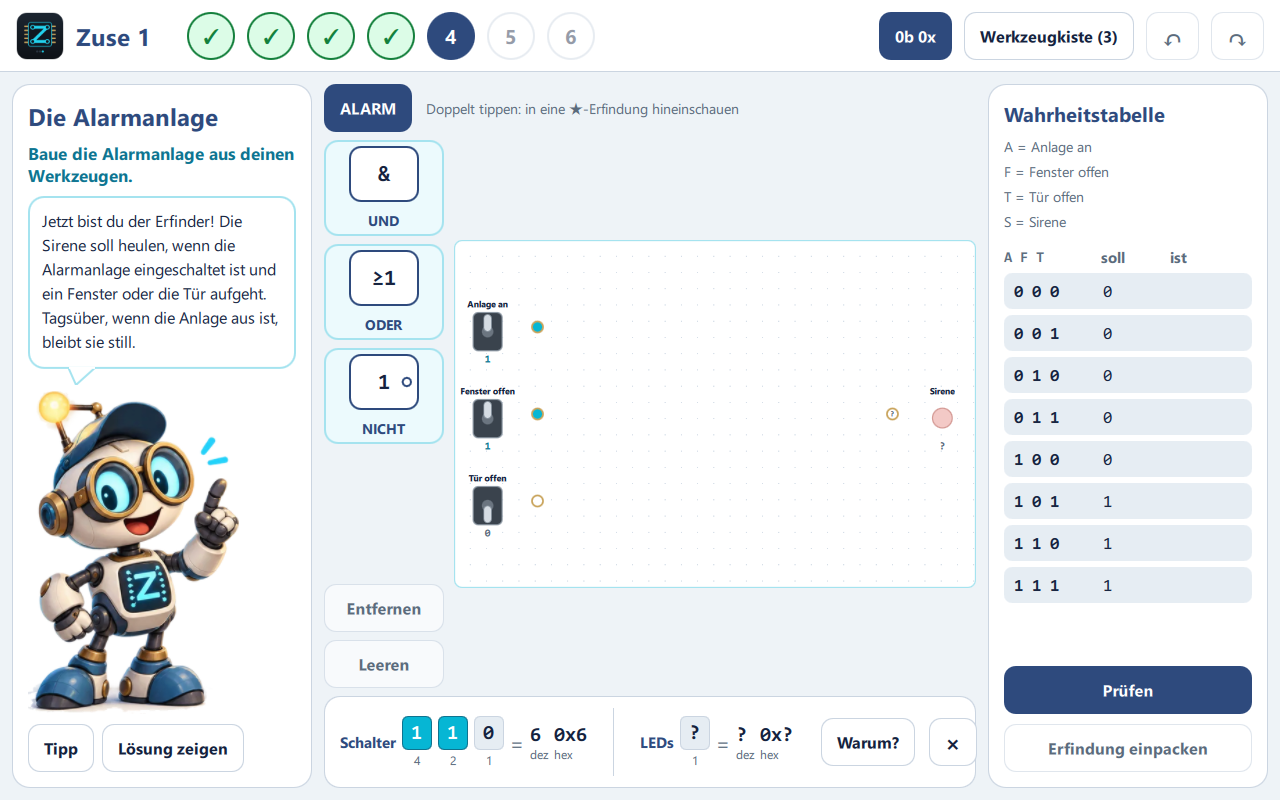
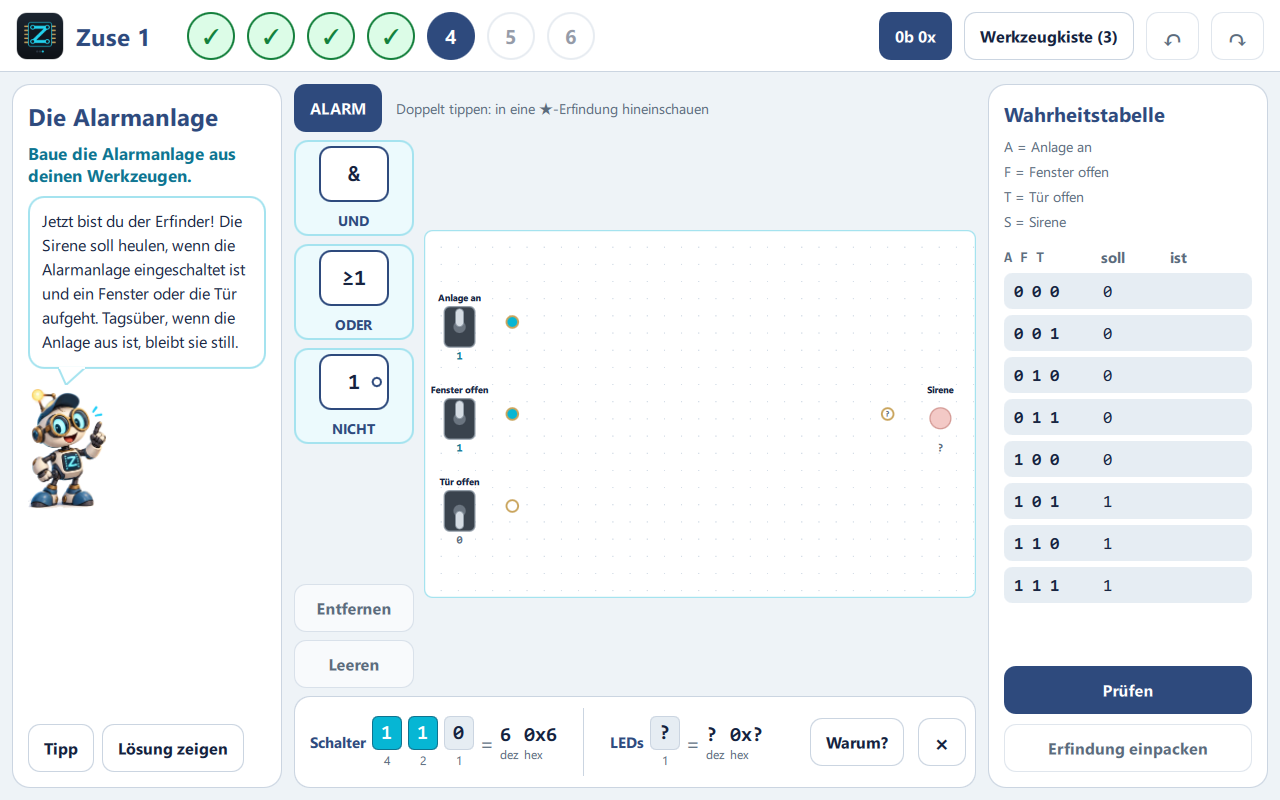
zuse: Zetti kleiner und im Hintergrund, schmalere Erzaehlspalte

diff --git a/zuse/qml/StoryPanel.qml b/zuse/qml/StoryPanel.qml
@@ -54,7 +54,7 @@ Rectangle {
             }
             Canvas { // Spitze der Blase zu Zetti
                 width: 28; height: 18
-                x: 40; y: parent.height - 2
+                x: 30; y: parent.height - 2
                 onPaint: {
                     const ctx = getContext("2d")
                     ctx.fillStyle = ZTheme.bubble
@@ -65,17 +65,17 @@ Rectangle {
                 }
             }
         }
-        Image { // Zetti
-            Layout.fillWidth: true
-            Layout.fillHeight: true
-            Layout.minimumHeight: 120
-            Layout.topMargin: 12
+        Image { // Zetti: klein unter der Sprechblase, begleitet im Hintergrund
+            Layout.preferredWidth: 96
+            Layout.preferredHeight: 120
+            Layout.topMargin: 10
             source: "qrc:/zuse/zetti/zetti_" + workbench.zettiPose + ".png"
             fillMode: Image.PreserveAspectFit
             horizontalAlignment: Image.AlignLeft
             smooth: true
             mipmap: true
         }
+        Item { Layout.fillHeight: true }
         Rectangle { // Merksatz nach dem Schaffen der Stufe
             visible: workbench.stageDone && workbench.stageMerksatz !== ""
             Layout.fillWidth: true

diff --git a/zuse/qml/Main.qml b/zuse/qml/Main.qml
@@ -119,7 +119,7 @@ ApplicationWindow {
         spacing: 12
 
         StoryPanel {
-            Layout.preferredWidth: 300
+            Layout.preferredWidth: 270
             Layout.fillWidth: false
             Layout.fillHeight: true
         }
